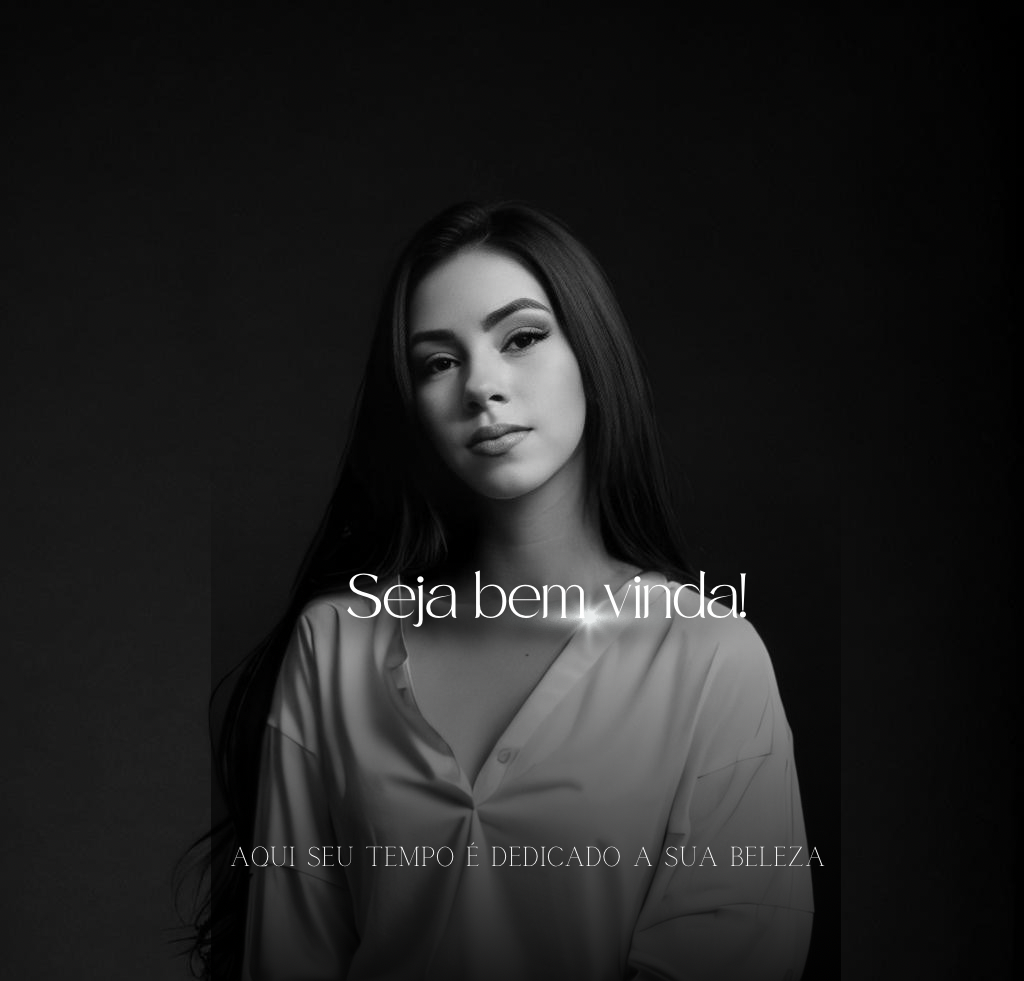
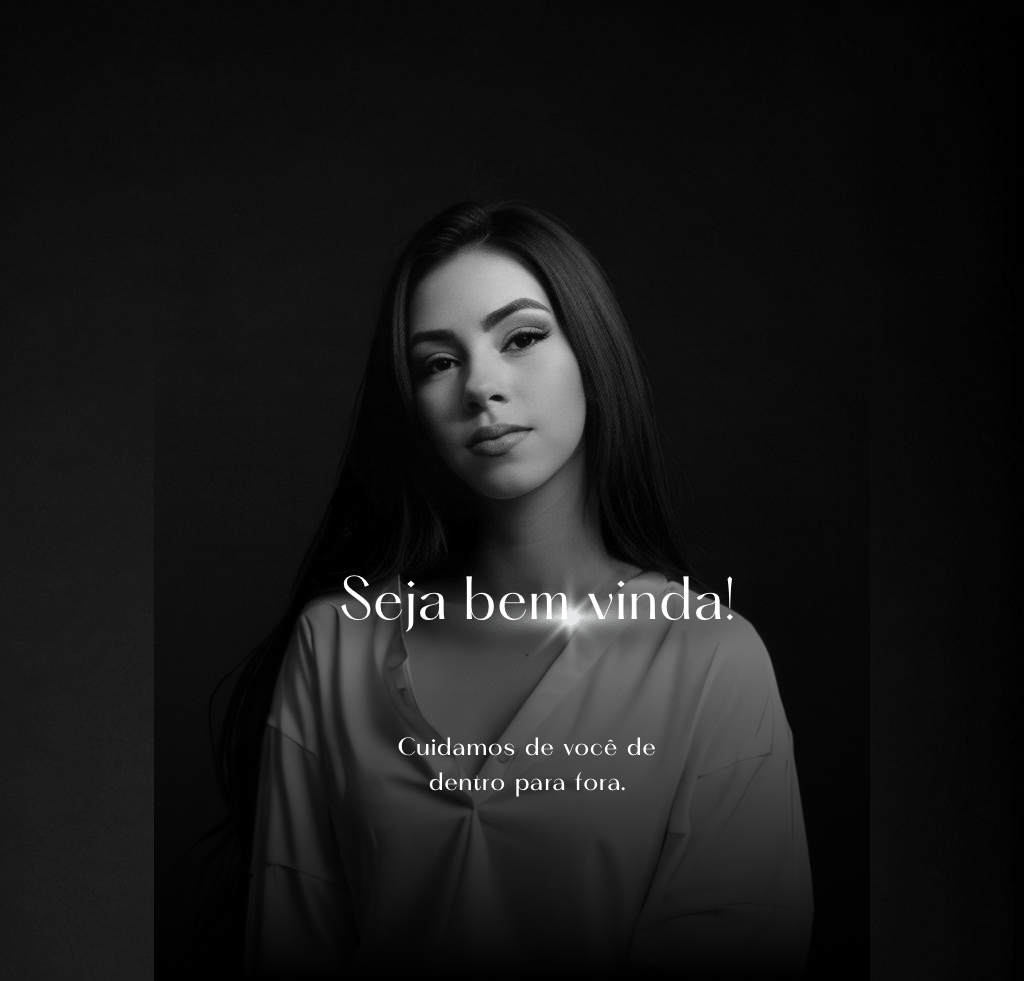
alteração

Changed region(s): [[0.2188, 0.3976, 0.8125, 1.0], [0.125, 0.8869, 0.2188, 1.0]]

diff --git a/index.html b/index.html
@@ -18,26 +18,21 @@
         }
 
         .section {
-            height: 100vh;
-            background-size: cover;
-            background-position: center;
-            background-repeat: no-repeat;
-            background-attachment: fixed;
-            position: relative;
-            display: flex;
-            justify-content: center;
-        }
-        .section {
             background-size: cover; /* Garante que a imagem cubra toda a área */
             background-position: center; /* Centraliza a imagem */
             background-repeat: no-repeat; /* Impede que a imagem se repita */
             background-attachment: fixed; /* Para efeito de parallax */
+            position: relative;
+            display: flex;
+            justify-content: center;
+            align-items: center;
+            padding: 60px 20px; /* Adiciona padding para espaçamento interno */
         }
-        
 
         /* Primeira seção com escurecimento e sombra */
         .section-1 {
             background-image: url('img/slide4.png');
+            height: 100vh; /* Mantém a primeira seção com altura total da tela */
         }
 
         .section-1::before {
@@ -55,6 +50,7 @@
         /* Segunda seção com imagem e ofuscamento */
         .section-2 {
             background-image: url('img/image.png'); /* Substitua pelo caminho da segunda imagem */
+            min-height: 100vh; /* Altura mínima de 100vh, mas pode crescer conforme o conteúdo */
         }
 
         .section-2::before {
@@ -95,7 +91,86 @@
             to { opacity: 1; transform: translateY(0); }
         }
 
-        /* Garantir que o background não se mova no celular */
+        /* Estilo da seção de serviços */
+        .servicos {
+            padding: 60px 20px;
+            text-align: center;
+            z-index: 2; /* Garante que o conteúdo fique acima da camada escura */
+            position: relative;
+        }
+
+        .servicos h2 {
+            font-size: 2.5rem;
+            margin-bottom: 10px;
+            color: white;
+        }
+
+        .servicos .subtitulo {
+            font-size: 1.1rem;
+            color: rgba(255, 255, 255, 0.8);
+            margin-bottom: 40px;
+        }
+
+        /* Grid de serviços */
+        .servicos-grid {
+            display: grid;
+            grid-template-columns: repeat(auto-fit, minmax(300px, 1fr));
+            gap: 20px;
+            max-width: 1200px;
+            margin: 0 auto;
+        }
+
+        /* Estilo dos cards */
+        .card {
+            background: rgba(255, 255, 255, 0.1); /* Fundo semi-transparente */
+            border-radius: 10px;
+            overflow: hidden;
+            box-shadow: 0 4px 8px rgba(0, 0, 0, 0.1);
+            transition: transform 0.3s ease, box-shadow 0.3s ease;
+            backdrop-filter: blur(10px); /* Efeito de desfoque no fundo */
+            border: 1px solid rgba(255, 255, 255, 0.2); /* Borda sutil */
+        }
+
+        .card:hover {
+            transform: translateY(-10px);
+            box-shadow: 0 8px 16px rgba(0, 0, 0, 0.2);
+        }
+
+        .card img {
+            width: 100%;
+            height: 200px;
+            object-fit: cover;
+        }
+
+        .card h3 {
+            font-size: 1.5rem;
+            margin: 20px 0 10px;
+            color: white;
+        }
+
+        .card p {
+            font-size: 1rem;
+            color: rgba(255, 255, 255, 0.8);
+            padding: 0 20px;
+            margin-bottom: 20px;
+        }
+
+        .card .btn {
+            display: inline-block;
+            padding: 10px 20px;
+            margin: 20px;
+            background-color: #ff6f61;
+            color: #fff;
+            text-decoration: none;
+            border-radius: 5px;
+            transition: background-color 0.3s ease;
+        }
+
+        .card .btn:hover {
+            background-color: #e65a50;
+        }
+
+        /* Responsividade */
         @media screen and (max-width: 768px) {
             .section {
                 background-attachment: scroll; /* Para dispositivos móveis */
@@ -108,84 +183,28 @@
             .content p {
                 font-size: 1.2rem;
             }
-        }
 
-        .services-banner {
-            display: flex;
-            justify-content: center;
-            align-items: flex-start;
-            gap: 20px; /* Espaço entre os serviços */
-            padding: 20px;
-            z-index: 2; /* Garante que o conteúdo fique acima da camada escura */
-            position: relative;
-            max-width: 1200px;
-            margin: 0 auto; /* Centraliza o banner na tela */
-        }
-
-        .service {
-            text-align: center;
-            color: white;
-            font-size: 1rem;
-            font-weight: bold;
-            text-shadow: 0 2px 5px rgba(0, 0, 0, 0.7);
-            width: 25%; /* Cada serviço ocupa 25% da largura no desktop */
-            max-width: 200px; /* Limita a largura máxima para manter compacto */
-            transition: transform 0.3s ease, box-shadow 0.3s ease; /* Efeito hover suave */
-        }
-
-        .service:hover {
-            transform: translateY(-10px); /* Eleva o card ao passar o mouse */
-        }
-
-        .service img {
-            width: 100%;
-            height: auto;
-            border-radius: 10px; /* Cantos arredondados nas imagens */
-            box-shadow: 0 5px 15px rgba(0, 0, 0, 0.5);
-            margin-bottom: 15px;
-            transition: transform 0.3s ease; /* Efeito hover suave */
-        }
-
-        .service:hover img {
-            transform: scale(1.05); /* Aumenta a imagem ao passar o mouse */
-        }
-
-        h3 {
-            font-size: 1.2rem; /* Tamanho ajustado para melhor legibilidade */
-            margin: 0;
-            font-weight: 600;
-        }
-
-        /* Layout responsivo para celular */
-        @media screen and (max-width: 768px) {
-            .services-banner {
-                flex-direction: column; /* Serviços em coluna */
-                align-items: center; /* Centraliza os itens no celular */
-                gap: 30px; /* Espaço maior entre os serviços */
-                padding: 40px 20px; /* Mais padding para melhor espaçamento */
+            .servicos-grid {
+                grid-template-columns: 1fr;
             }
 
-            .service {
-                width: 50%; /* Cada serviço ocupa quase toda a largura */
-                max-width: 250px; /* Limita a largura máxima no celular */
+            .servicos h2 {
+                font-size: 2rem;
             }
 
-            .service img {
-                margin-bottom: 0px; /* Espaço menor entre a imagem e o texto */
-            }
-
-            h3 {
-                font-size: 1rem; /* Tamanho de fonte ajustado para celular */
+            .servicos .subtitulo {
+                font-size: 1rem;
             }
         }
+
         footer {
             background-color: #000000;
             color: white;
             text-align: center;
-            padding: 0px 10px;
+            padding: 20px 10px;
             position: relative;
         }
-    
+
         .footer-content {
             max-width: 1200px;
             margin: 0 auto;
@@ -194,75 +213,55 @@
             align-items: center;
             gap: 15px;
         }
-    
-        /* Links do Footer */
-        .footer-links {
-            list-style: none;
-            padding: 0;
-            margin: 0;
-            display: flex;
-            gap: 20px;
-        }
-    
-        .footer-links li {
-            display: inline;
-        }
-    
-        .footer-links a {
-            color: white;
-            text-decoration: none;
-            font-size: 0.9rem;
-            transition: color 0.3s;
-        }
+
         footer p {
-            font-size: 0.6rem; /* Ajuste o valor conforme necessário */
-        }
-        
-        
-    
-     
-       
-    
-        /* Responsividade para o Footer */
-        @media screen and (max-width: 768px) {
-            .footer-links {
-                flex-direction: column;
-                gap: 10px;
-            }
-    
-            .social-media {
-                margin-top: 10px;
-            }
+            font-size: 0.8rem;
         }
     </style>
 </head>
 <body>
     <div class="section section-1">
         <div class="content">
+            <h1></h1>
+            <p></p>
         </div>
     </div>
 
     <div class="section section-2">
-        <div class="services-banner">
-            <div class="service">
-                <img src="img/design-sombracelha.png" alt="Extensão de Cílios">
+        <section class="servicos">
+            <h2>Nossos Serviços</h2>
+            <p class="subtitulo">Descubra os tratamentos que oferecemos para realçar sua beleza.</p>
+        
+            <div class="servicos-grid">
+              <!-- Card 1: Extensão de Cílios -->
+              <div class="card">
+                <img src="img/cilios.png" alt="Extensão de Cílios">
                 <h3>Extensão de Cílios</h3>
-            </div>
-            <div class="service">
+                <p>Cílios longos e volumosos com técnicas personalizadas.</p>
+                <a href="#" class="btn">Saiba Mais</a>
+              </div>
+        
+              <!-- Card 2: Blindagem -->
+              <div class="card">
+                <img src="img/blindagem.png" alt="Blindagem">
+                <h3>Blindagem</h3>
+                <p>Maquiagem semipermanente para um olhar marcante.</p>
+                <a href="#" class="btn">Saiba Mais</a>
+              </div>
+        
+              <!-- Card 3: Design de Sobrancelhas -->
+              <div class="card">
                 <img src="img/design-sombracelha.png" alt="Design de Sobrancelhas">
                 <h3>Design de Sobrancelhas</h3>
+                <p>Sobrancelhas perfeitas com design profissional.</p>
+                <a href="#" class="btn">Saiba Mais</a>
+              </div>
             </div>
-            <div class="service">
-                <img src="img/design-sombracelha.png" alt="Blindagem de Unhas">
-                <h3>Blindagem de Unhas</h3>
-            </div>
-        </div>
+          </section>
     </div>
     <footer>
         <div class="footer-content">
             <p>&copy; 2025 CibellyLash - Todos os direitos reservados.</p>
-            
-           
         </div>
     </footer>
 </body>
